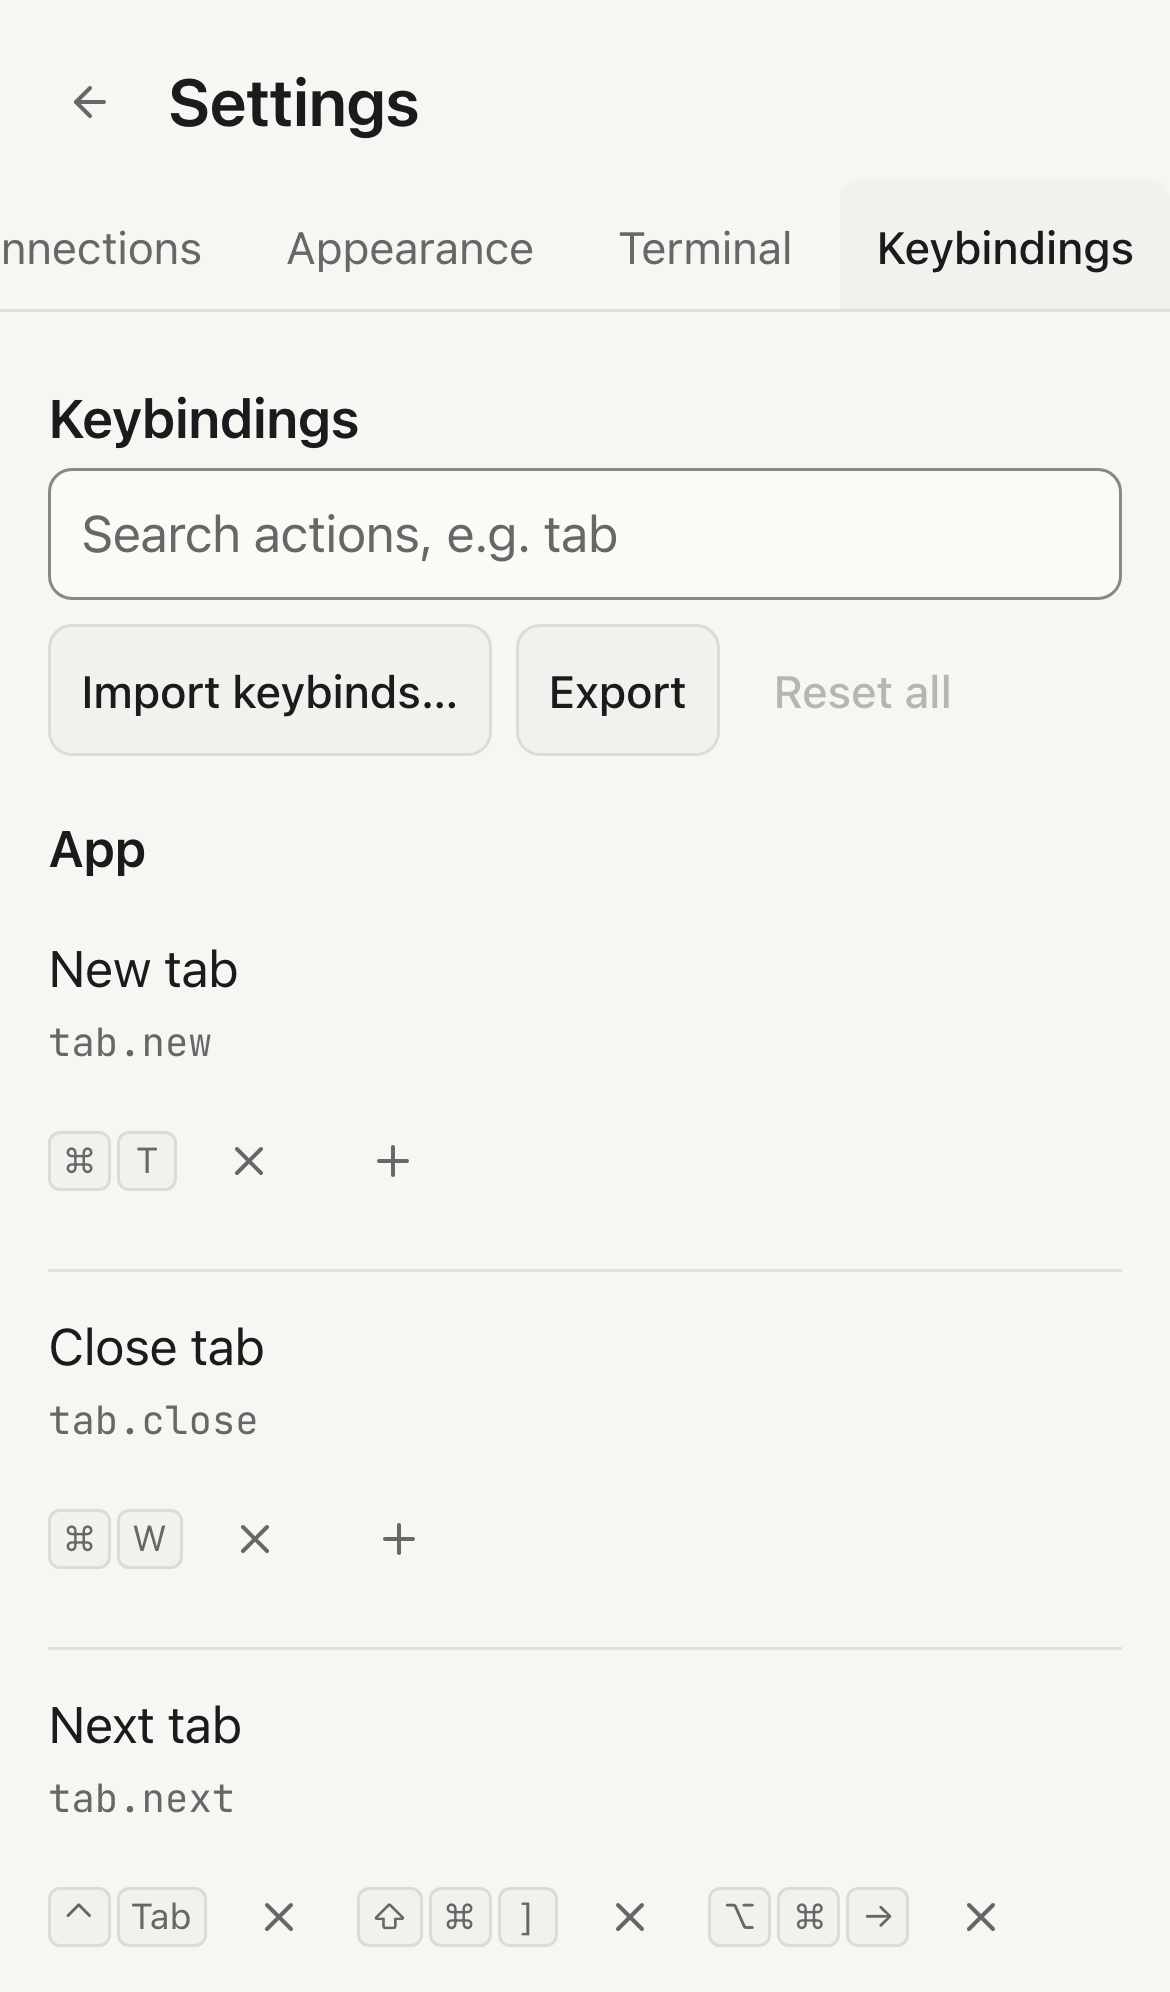
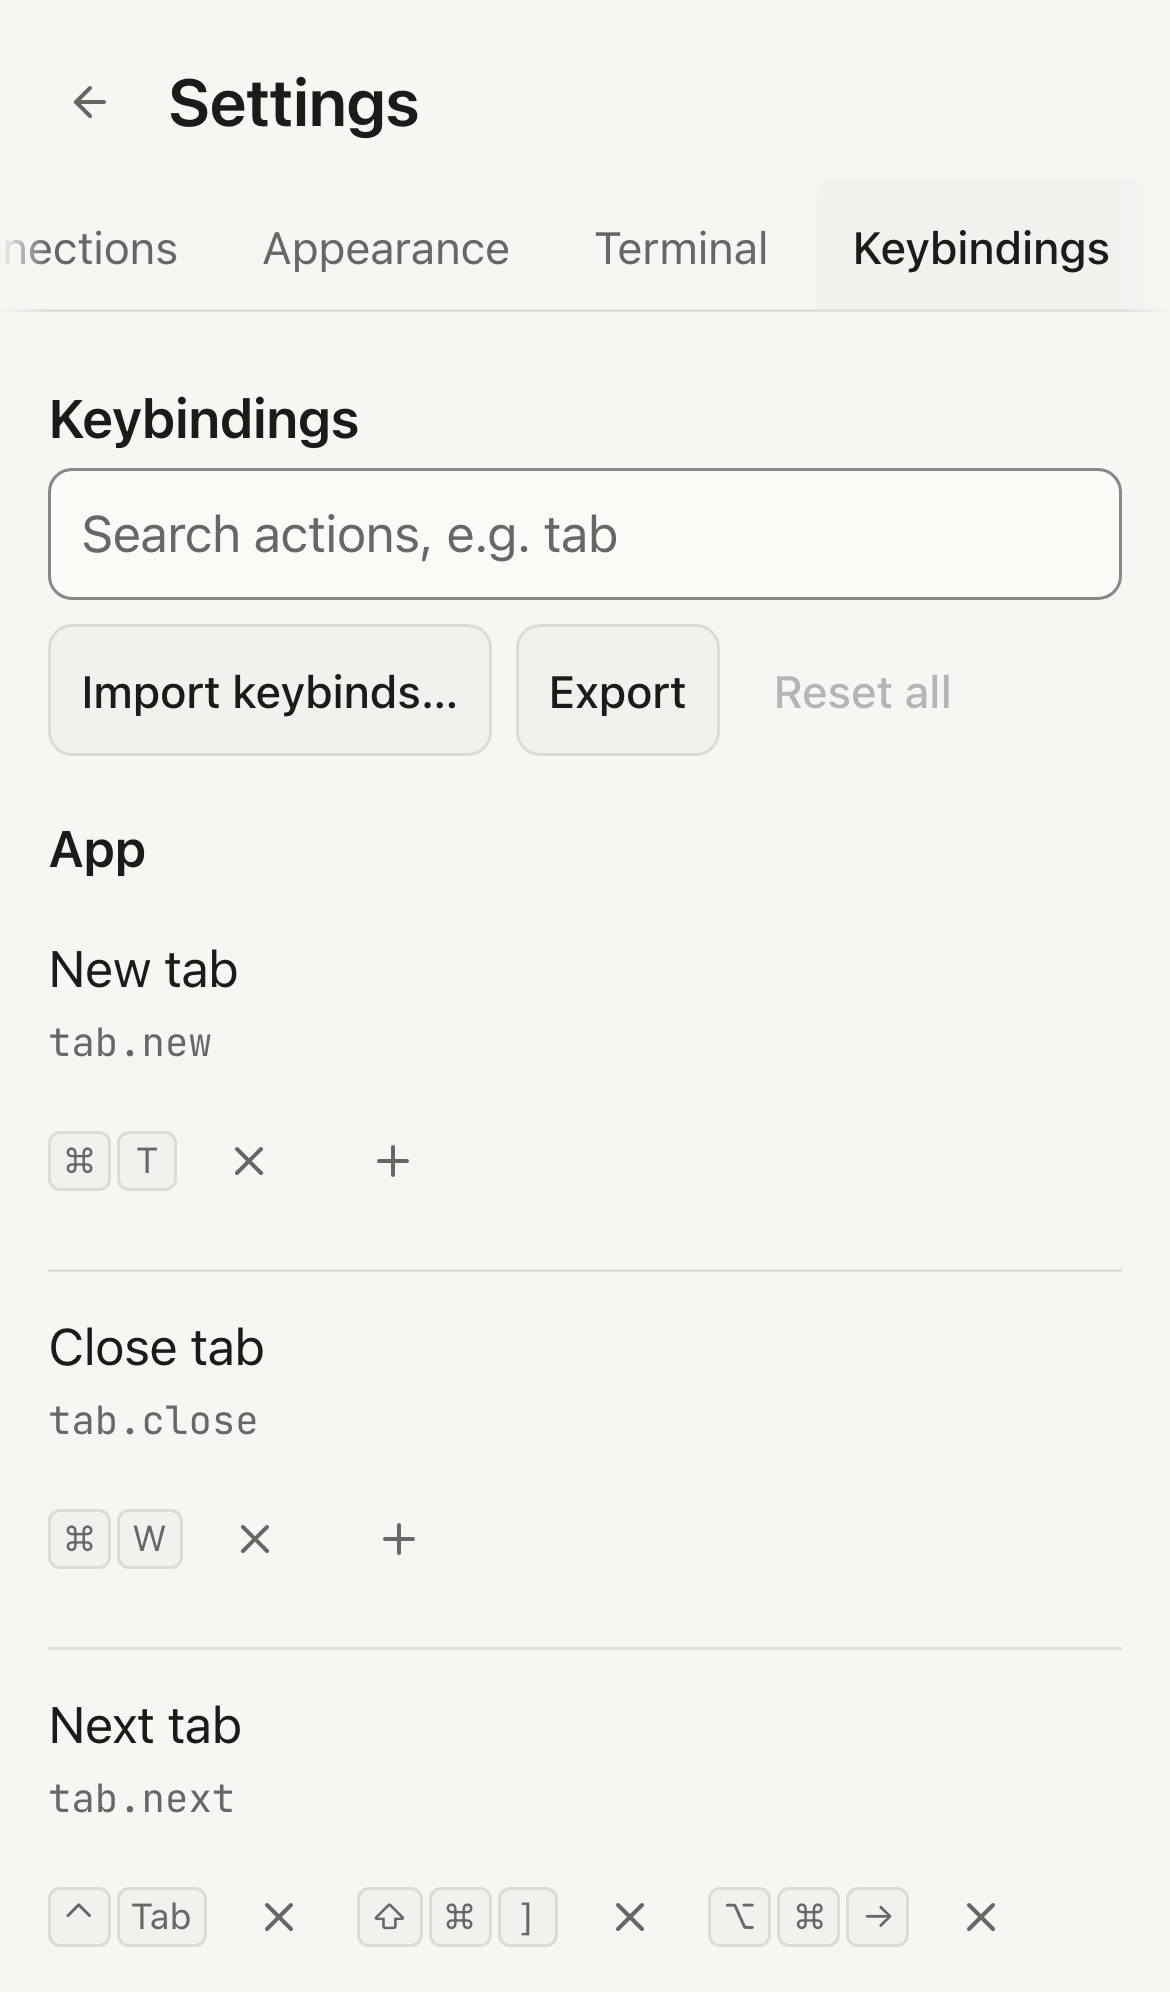
fix(ui): tab lists show where tabs continue out of view
On a 390-wide screen the settings tab list scrolled with a hidden scrollbar and clipped a label with nothing to say it scrolls. Tab lists now fade at both edges, and tabs snap to their start so a resting position does not cut a label mid-word; the tabs' own padding keeps unscrolled labels clear of the fade. Settings captures re-taken in both themes.

diff --git a/packages/ui/src/components/tabs.tsx b/packages/ui/src/components/tabs.tsx
@@ -10,7 +10,12 @@ export function TabList({ className, ...props }: ClassNameless<ComponentProps<ty
   return (
     <BaseTabs.List
       {...props}
-      className={cn("flex items-center gap-1 overflow-x-auto border-b border-border [scrollbar-width:none]", className)}
+      className={cn(
+        "flex snap-x snap-proximity items-center gap-1 overflow-x-auto border-b border-border [scrollbar-width:none]",
+        // Tabs that continue out of view fade at the edge; the tabs' own padding keeps unscrolled labels clear of it.
+        "[mask-image:linear-gradient(to_right,transparent,black_1rem,black_calc(100%-1rem),transparent)]",
+        className,
+      )}
     />
   );
 }
@@ -21,7 +26,7 @@ export function Tab({ className, ...props }: ClassNameless<ComponentProps<typeof
     <BaseTabs.Tab
       {...props}
       className={cn(
-        "-mb-px inline-flex h-(--control) shrink-0 items-center gap-1.5 rounded-t-sm px-3 text-sm text-muted-foreground outline-none",
+        "-mb-px inline-flex h-(--control) shrink-0 snap-start items-center gap-1.5 rounded-t-sm px-3 text-sm text-muted-foreground outline-none",
         "hover:text-foreground focus-visible:outline-2 focus-visible:outline-ring",
         "data-active:bg-raised data-active:font-medium data-active:text-foreground",
         className,
